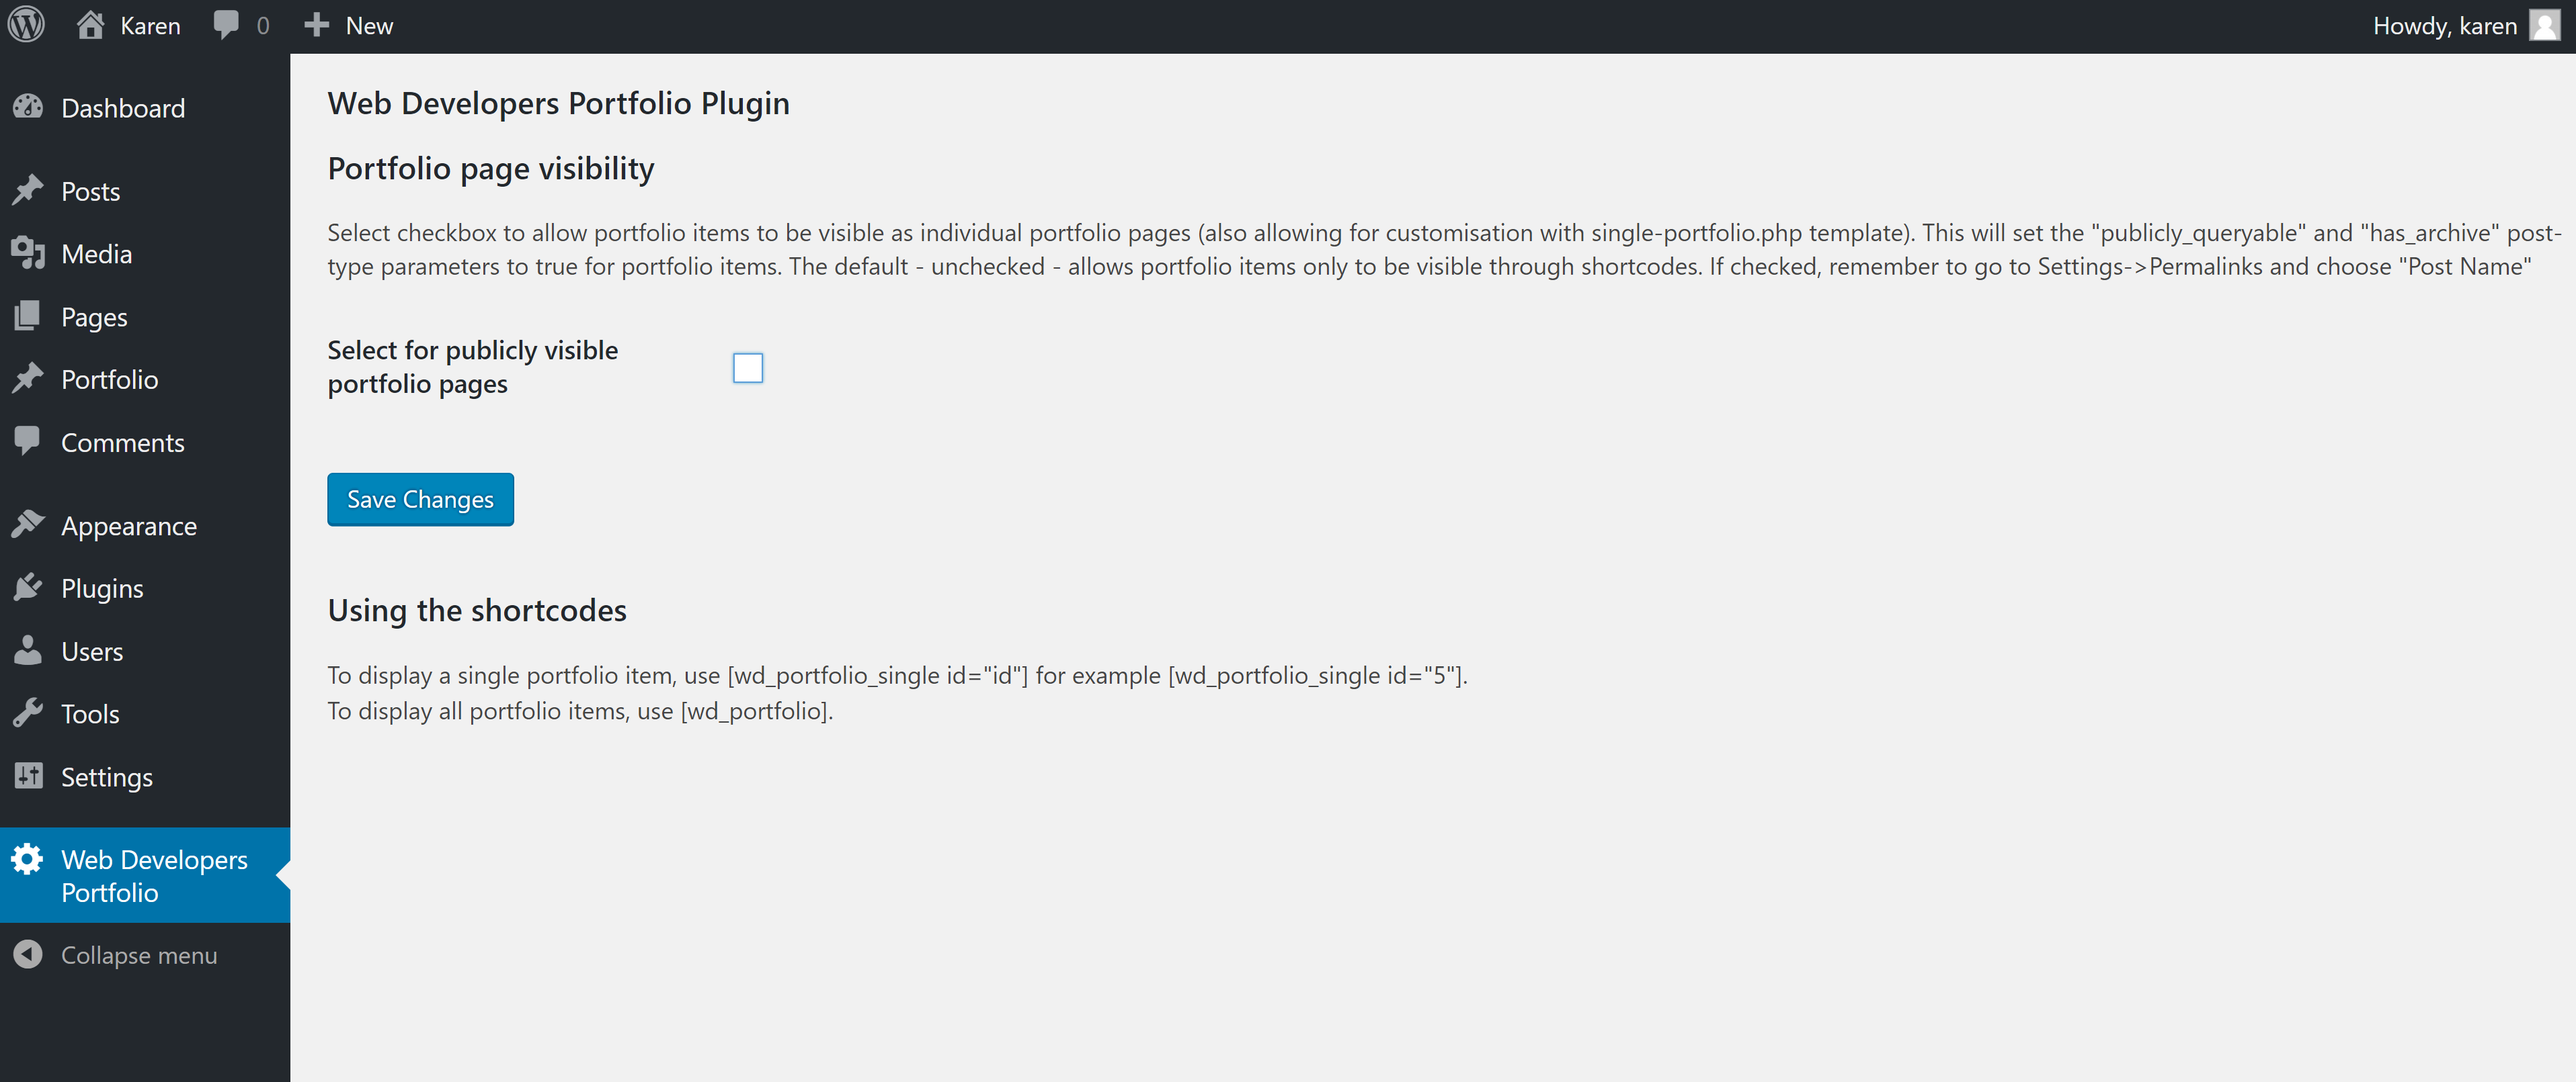
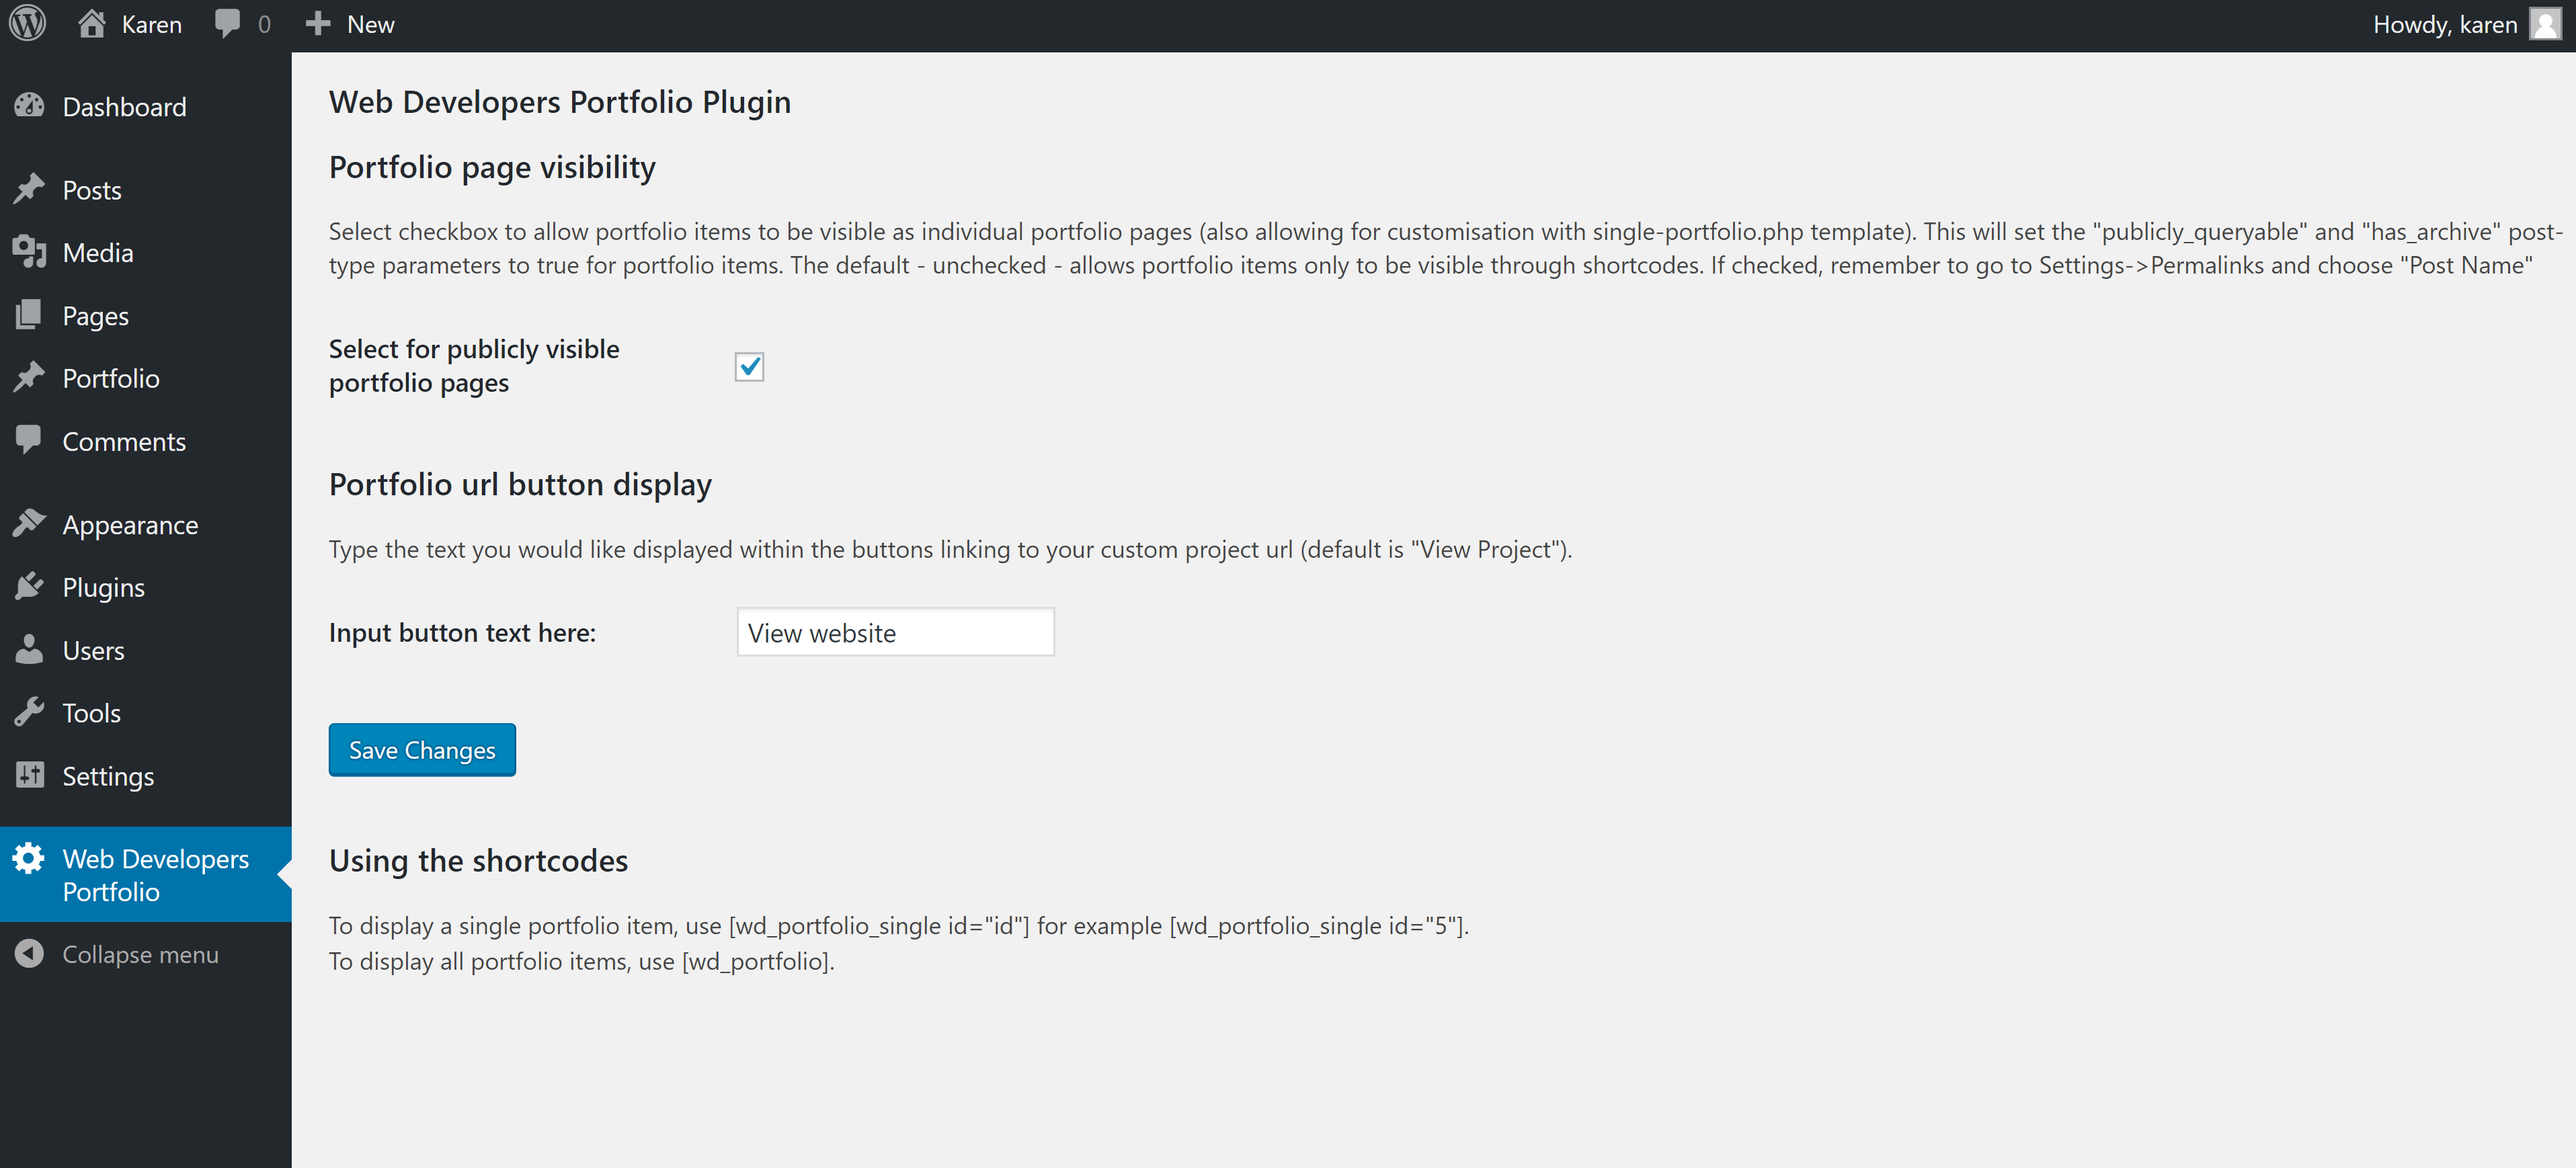
Fixing error with implode function not showing button text in some instances

diff --git a/inc/class-wdp-plugin-public.php b/inc/class-wdp-plugin-public.php
@@ -223,11 +223,17 @@ if ( ! class_exists( 'WDP_Plugin_Public' ) ) {
                             // Display button linking to custom url, if custom url is set
                             if (isset($custom['_my_url']) ) {
                                 $options = get_option( 'wdp-button-text' );
-                                $button_text = implode(" ", $options);
 
-                                if ($button_text == '') {                         
-                                    $button_text = esc_html__( 'View Project', 'wdp-plugin' ); 
-                                }
+
+                            if (($options['wdp_button_text_field'] != '') && $options != false) {
+                                $button_text = implode(" ", $options);
+                            }
+                            
+                            else {
+                                $button_text = esc_html__( 'View Project', 'wdp-plugin' );
+                            }
+
+
 
                                 $printbutton = sprintf( '<div class="wdp-featured-cta"><span class="wdp-buttons"><a class="wdp-btn" href="%1$s">%2$s</a></span></div>', $custom['_my_url'][0], $button_text) ;
                                 $portfoliopreview .= $printbutton;

diff --git a/inc/class-wdp-plugin-admin.php b/inc/class-wdp-plugin-admin.php
@@ -100,16 +100,14 @@ if ( ! class_exists( 'WDP_Admin' ) ) {
 		public function wdp_button_text_renderer(  ) { 
 	
 			$options = (get_option( 'wdp-button-text' ));
-			$options_string = implode(" ", $options);
 
-			/* Create placeholder text for the input field */
-			if ($options_string != '') {
+			if (($options['wdp_button_text_field'] != '') && $options != false) {
+				$options_string = implode(" ", $options);
 				$placeholder = "placeholder='" . $options_string . "'";
 			}
 			else {
-				$default_placeholder = __('View Project', 'wdp-plugin'); 
-				$placeholder = 'placeholder="' . $default_placeholder . '"';
-				// $placeholder = "placeholder='View Project'";
+				$options_string = __('View Project', 'wdp-plugin'); 
+				$placeholder = 'placeholder="' . $options_string . '"';
 			}
 
 			echo '<input name="wdp-button-text[wdp_button_text_field]" id="wdp_button_text_field" type="text" value="' . $options_string .  '"' . $placeholder . '/>';

diff --git a/wdp-plugin.php b/wdp-plugin.php
@@ -5,7 +5,7 @@ Plugin URI: http://karenattfield.com/wdp-plugin/
 Description: A plugin that displays items within a portfolio on a designated portfolio page using custom post types via shortcodes. Designed to showcase screenshots from both desktop and mobile devices for each portfolio listing.
 Author: Karen Attfield
 Text Domain: wdp-plugin
-Version: 1.0.1
+Version: 1.1.1
 Author URI: http://karenattfield.com
 License: GNU General Public License v2 or later
 License URI: http://www.gnu.org/licenses/gpl-2.0.html 

diff --git a/README.md b/README.md
@@ -4,7 +4,7 @@
 **Tags:** portfolio, post type, images, shortcode  
 **Requires at least:** 4.4  
 **Tested up to:** 4.9  
-**Stable tag:** 1.1.0  
+**Stable tag:** 1.1.1  
 **License:** GPLv2 or later  
 **License URI:** http://www.gnu.org/licenses/gpl-2.0.html  
 
@@ -107,6 +107,9 @@ I had a need to display both desktop and mobile screenshots for individual portf
 
 ## Changelog 
 
+### 1.1.1 
+* Fix: Implode function wasn't displaying button text in some instances
+
 ### 1.1.0 
 * Added ability to change portfolio url button text in WDP Portfolio Settings page
 * Fix: Changed call to title and button text in mobile media uploader to avoid Ninja Forms plugin conflict 
@@ -127,6 +130,9 @@ I had a need to display both desktop and mobile screenshots for individual portf
 * Initial release
 
 ## Upgrade Notice 
+
+### 1.1.1 
+* Fix: Implode function wasn't displaying button text in some instances
 
 ### 1.1.0
 * Adding ability to change portfolio url button text, and fixing Ninja Forms conflict with mobile image uploader
